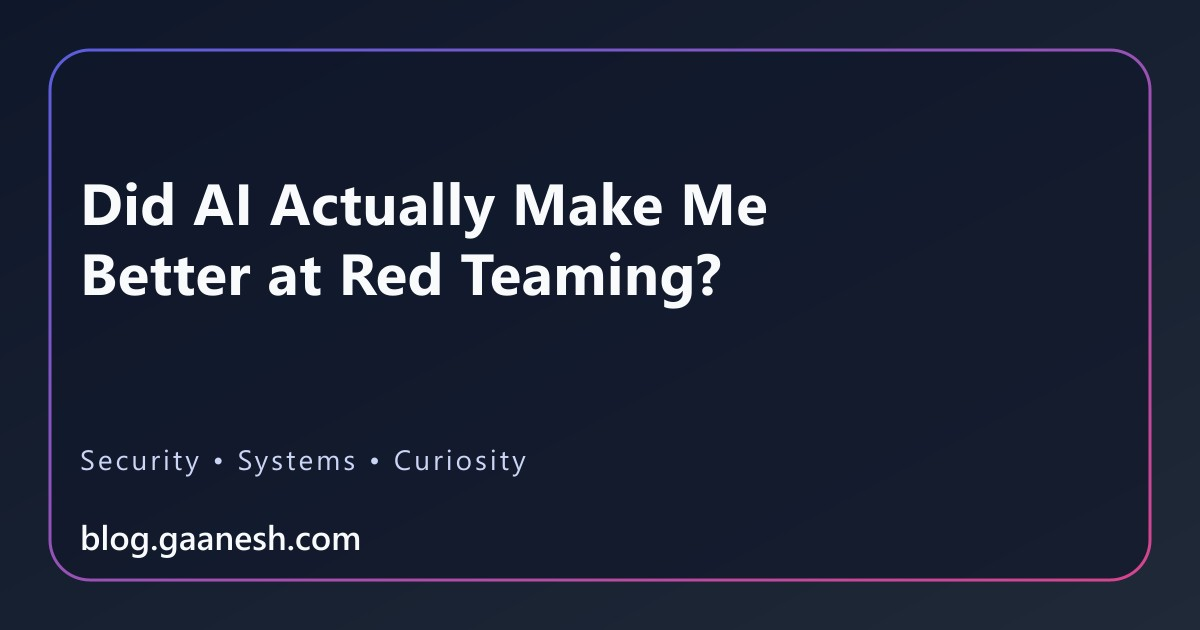
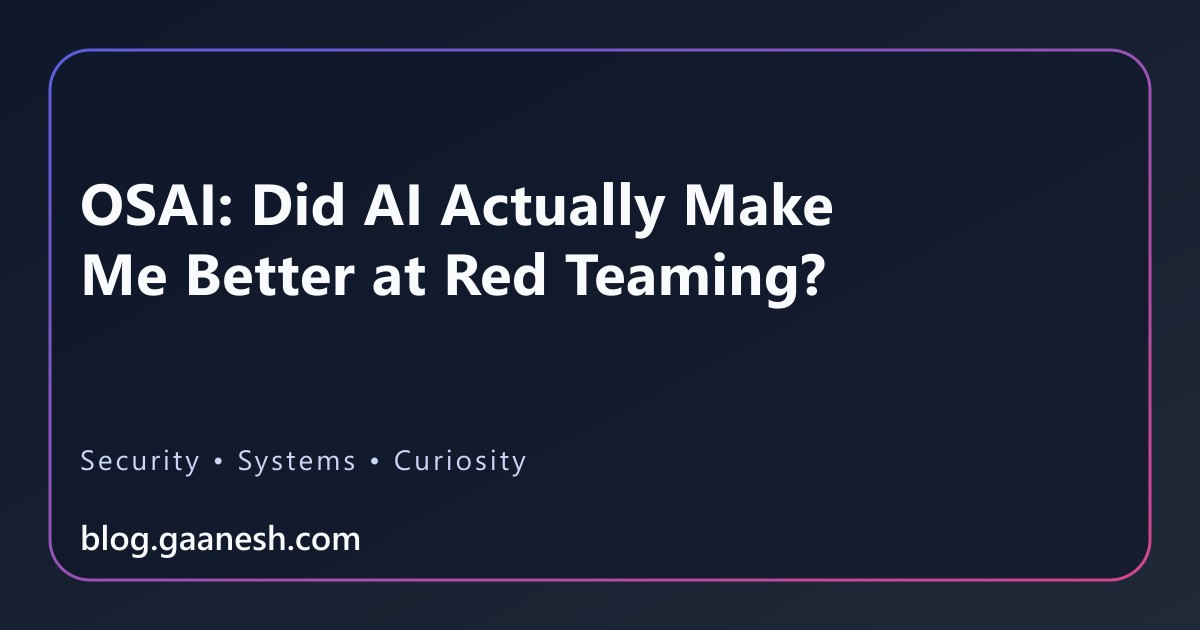
Retitle the OSAI post, and stop app.html overriding per-page SEO
The exam is named now, so the title leads with OSAI and the description
and keywords follow.

app.html carried a default title, description, canonical and og/twitter
set. That markup is emitted before %sveltekit.head%, and a crawler takes
the first occurrence, so every post was serving the blog's generic title
and description. Worse, canonical pointed at the homepage on all of them,
which invites search engines to treat each post as a duplicate. The
per-post og:image never reached a crawler either.

Those tags now live only where they belong: the home page owns the site
defaults, _mdLayout owns the per-post set. Verified one occurrence each,
with the correct value, on the home page and two posts.

Changed region(s): [[0.0617, 0.2714, 0.7092, 0.5127]]

diff --git a/src/app.html b/src/app.html
@@ -6,17 +6,11 @@
     <meta name="theme-color" content="#f7f4ee" />
     <meta name="color-scheme" content="light" />
 
-    <link rel="canonical" href="https://blog.gaanesh.com/" />
+    <!-- Title, description, canonical and the og/twitter tags are set per route
+         via <svelte:head>. They must not also live here: this markup is emitted
+         before %sveltekit.head%, and a crawler takes the first occurrence, so a
+         default here silently overrides every post. -->
 
-    <!-- Default SEO; per-page _mdLayout overrides via <svelte:head> -->
-    <title>Writing — Gaanesh Theivasigamani</title>
-    <meta name="description" content="Notes on security work, studying at NUS, and what I have figured out along the way." />
-    <meta property="og:type" content="website" />
-    <meta property="og:title" content="Writing — Gaanesh Theivasigamani" />
-    <meta property="og:description" content="Notes on security work, studying at NUS, and what I have figured out along the way." />
-    <meta property="og:url" content="https://blog.gaanesh.com/" />
-    <meta property="og:image" content="https://blog.gaanesh.com/og/default.jpg" />
-    <meta name="twitter:card" content="summary_large_image" />
     <meta name="twitter:site" content="@PlantSecurity" />
 
     <script type="application/ld+json">

diff --git a/src/routes/+page.svelte b/src/routes/+page.svelte
@@ -21,6 +21,16 @@
     name="description"
     content="Notes on security work, studying at NUS, and what I have figured out along the way."
   />
+  <link rel="canonical" href="https://blog.gaanesh.com/" />
+  <meta property="og:type" content="website" />
+  <meta property="og:title" content="Writing — {identity.name}" />
+  <meta
+    property="og:description"
+    content="Notes on security work, studying at NUS, and what I have figured out along the way."
+  />
+  <meta property="og:url" content="https://blog.gaanesh.com/" />
+  <meta property="og:image" content="https://blog.gaanesh.com/og/default.jpg" />
+  <meta name="twitter:card" content="summary_large_image" />
 </svelte:head>
 
 <div class="phead">
